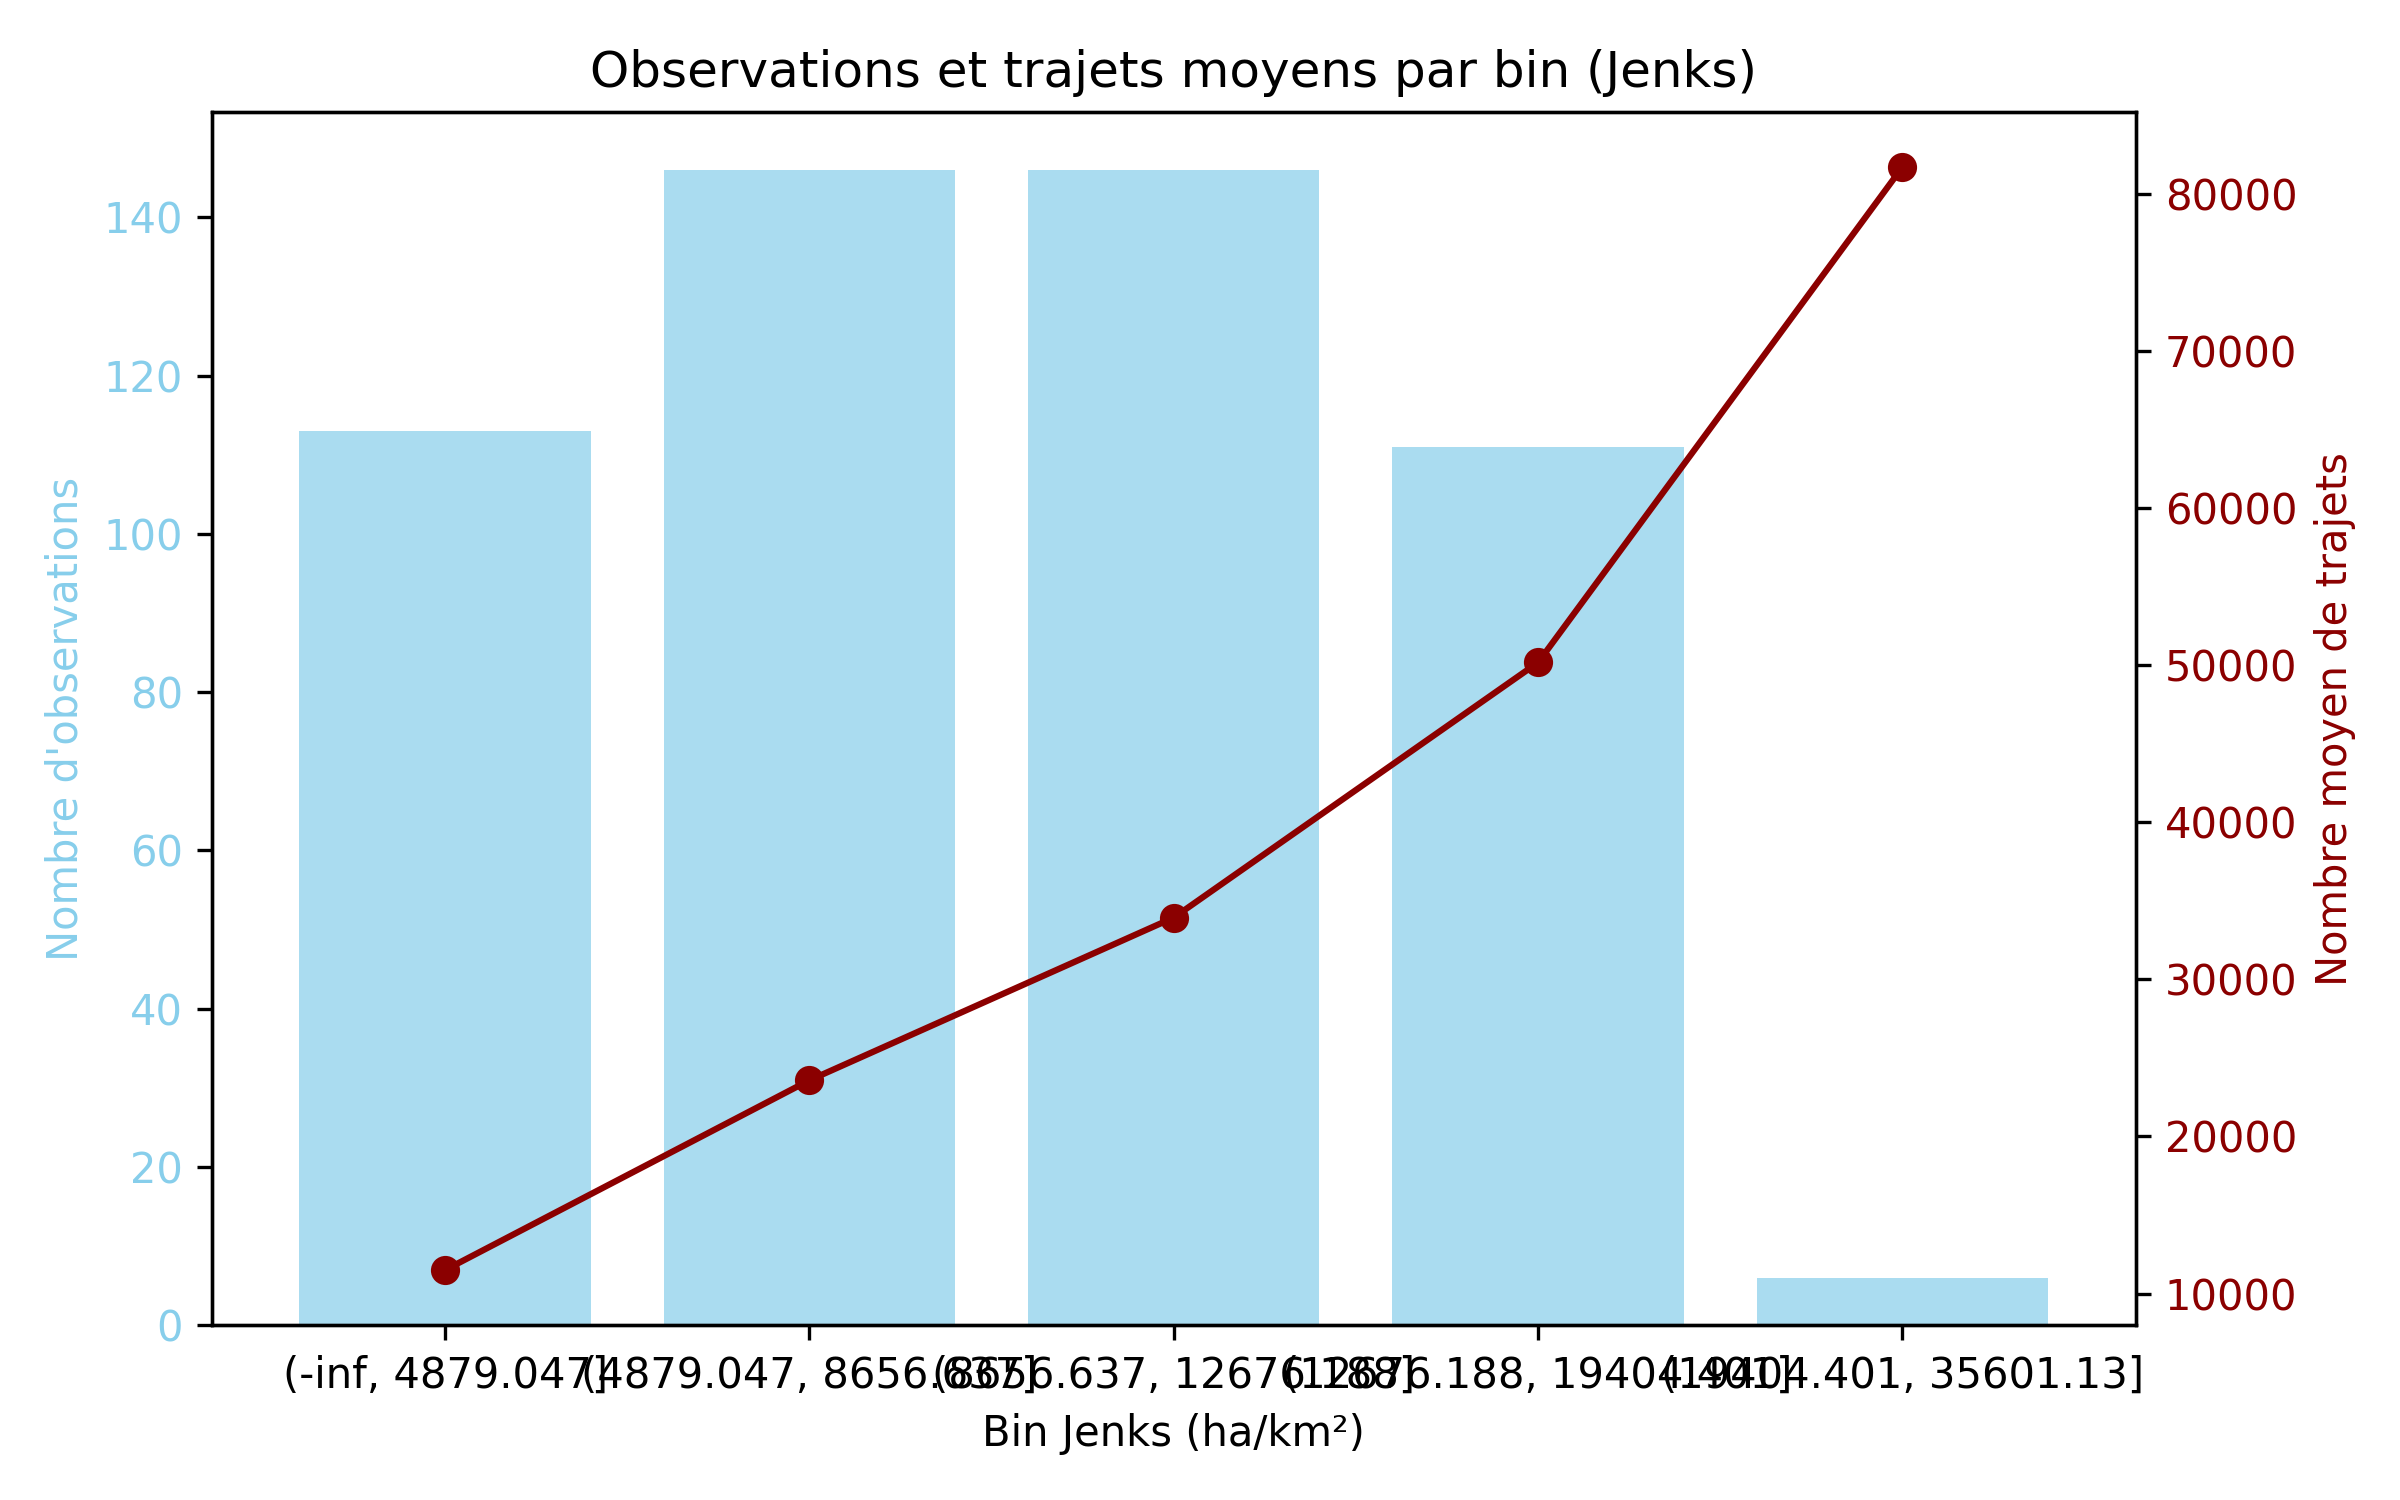
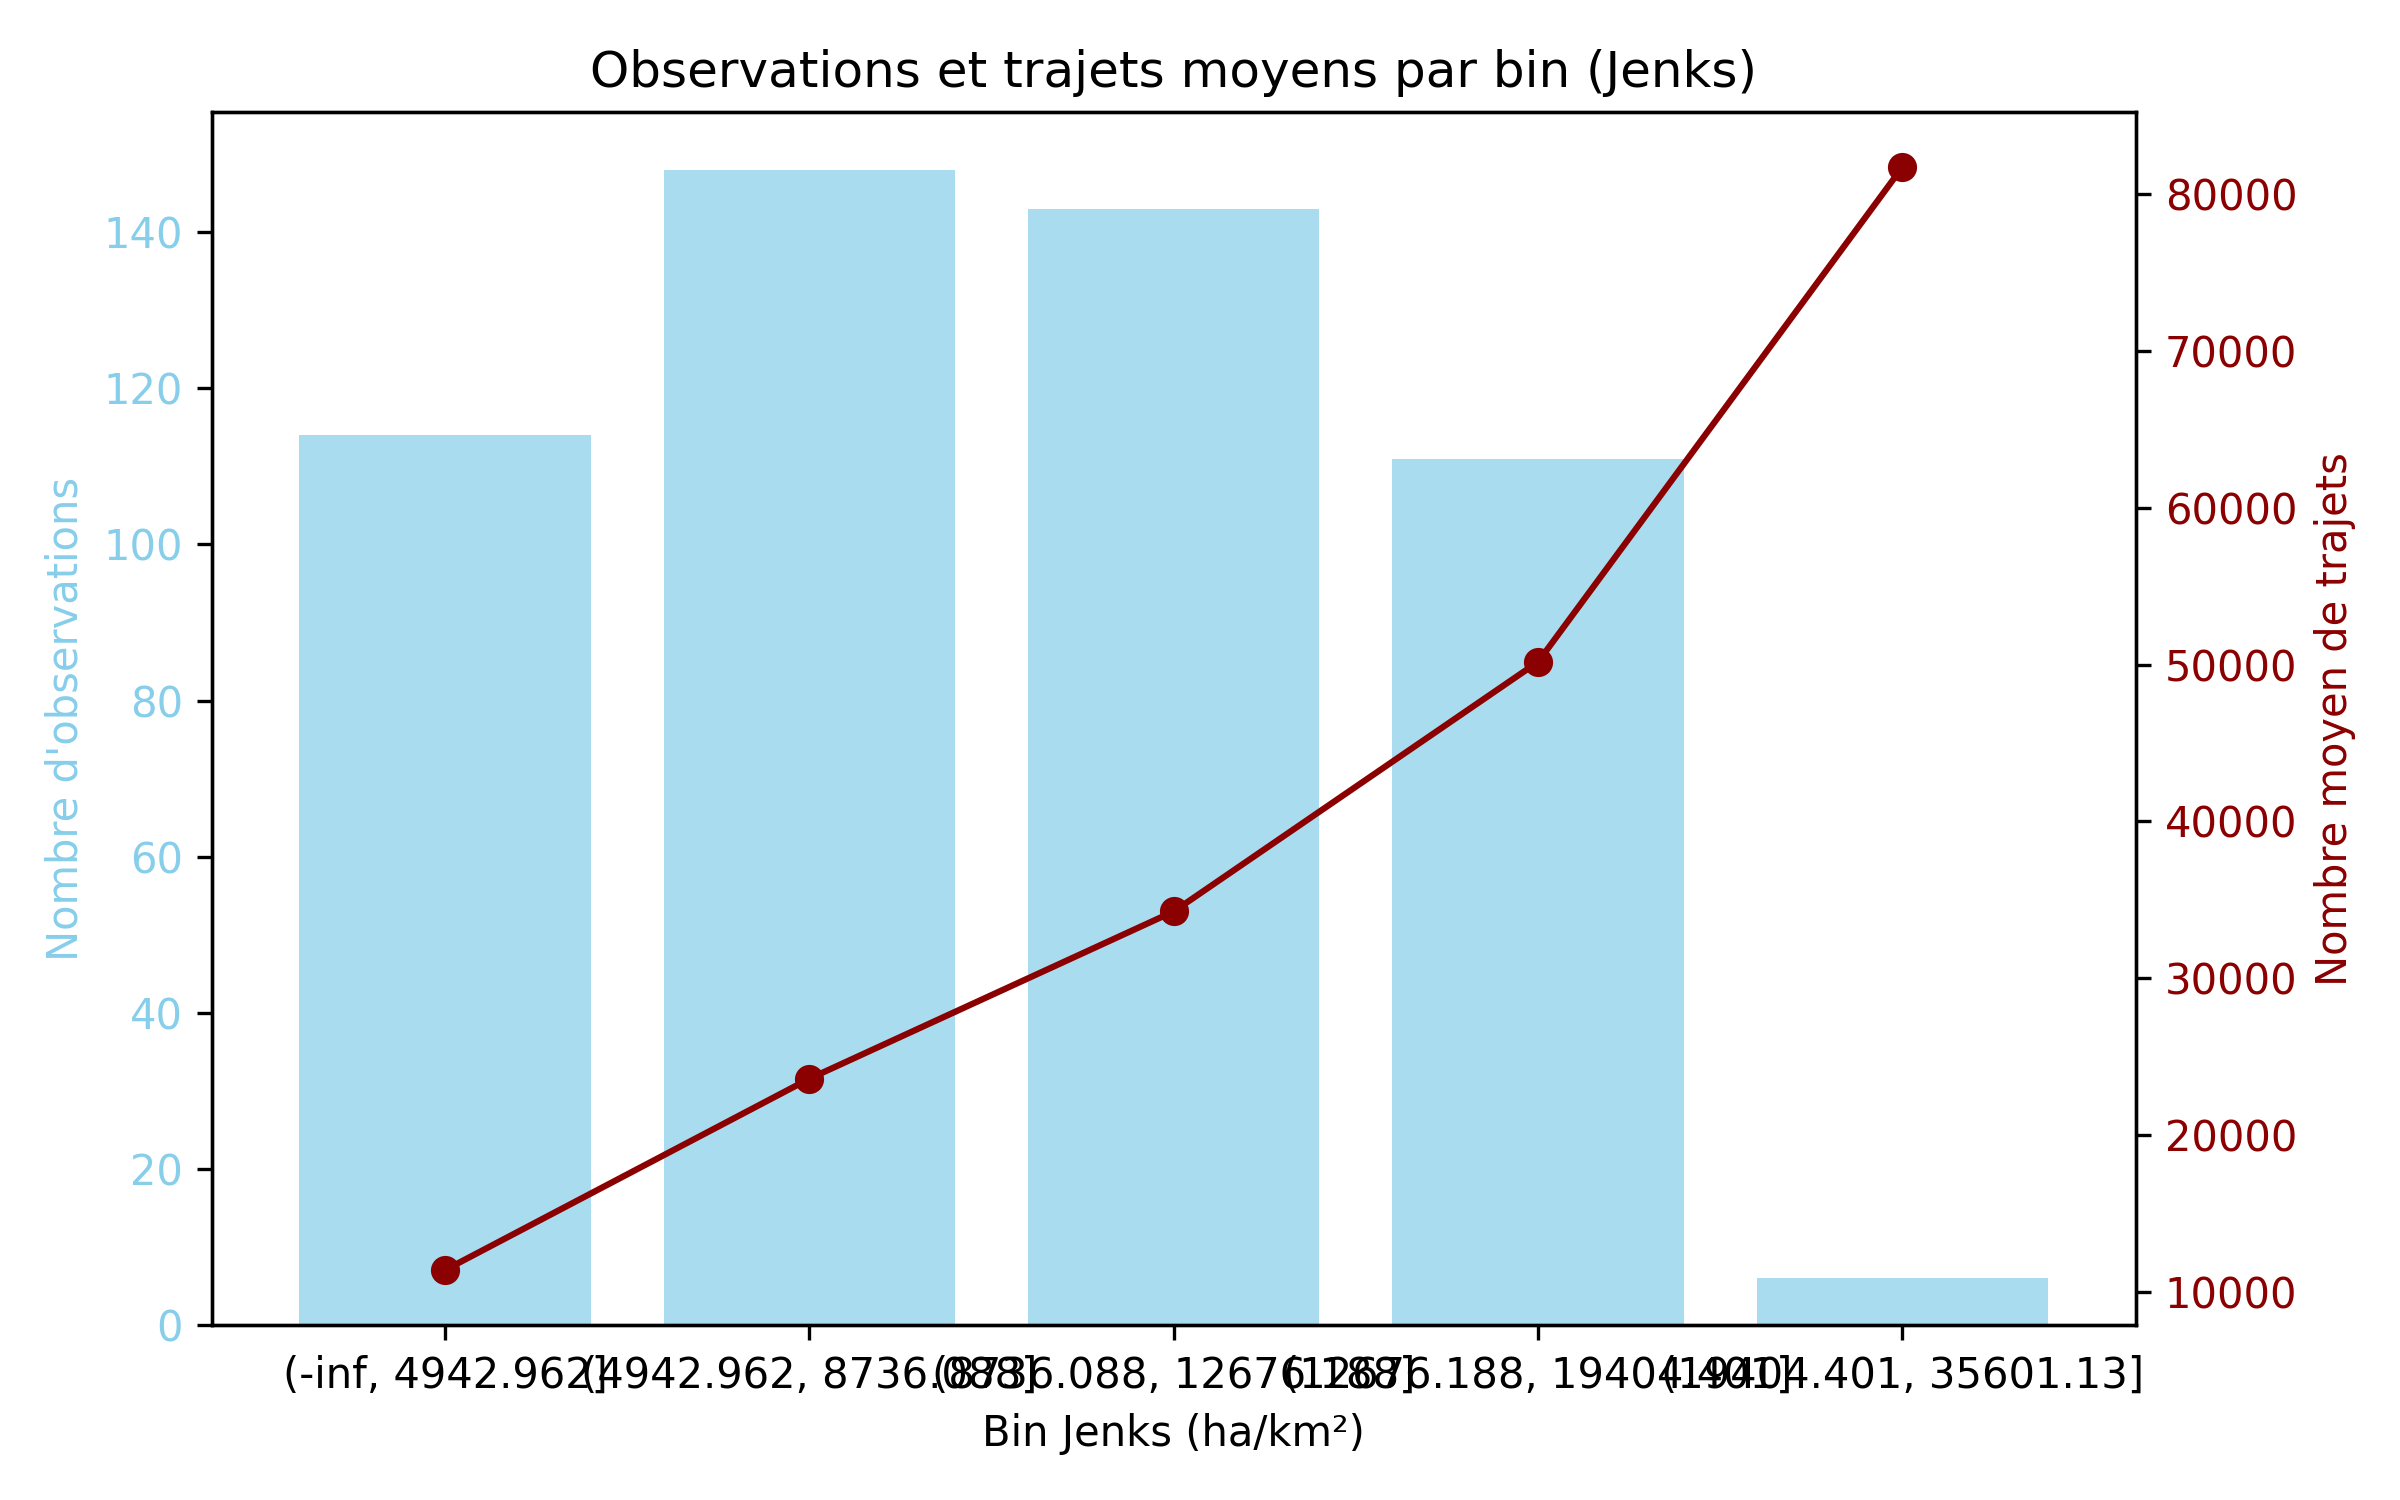
Revert "reformat csv"
This reverts commit 62c2c0f4a26b6646511b2d82e3f7f50ee252e098.

diff --git a/scripts/visuals/generate_visuals.py b/scripts/visuals/generate_visuals.py
@@ -29,15 +29,9 @@ def analyser_relation(df, x_col, y_col, output_prefix, correlation_csv="../../ou
 
     os.makedirs("../../output", exist_ok=True)
     if os.path.exists(correlation_csv):
-        corr_df.to_csv(correlation_csv,
-                       sep=";",  # séparateur de colonnes
-                       decimal=",",
-                       mode="a", header=False, index=False)
+        corr_df.to_csv(correlation_csv, mode="a", header=False, index=False)
     else:
-        corr_df.to_csv(correlation_csv,
-                       sep=";",  # séparateur de colonnes
-                       decimal=",",
-                       index=False)
+        corr_df.to_csv(correlation_csv, index=False)
 
     # Scatterplot
     plt.figure(figsize=(8, 6))
@@ -167,7 +161,7 @@ def analyser_zonage(hexagones, output_path ):
 
 def main():
     # Chargement des données
-    season = "hiver_2425"
+    season = "hiver_2324"
     if season == "ete_2024":
         hexagones = gpd.read_file("../../data/processed/ete_2024/hexagones250m_ete_2024_popdens_bikepath_parcs_universites_zonage_logement_cegep.shp")
     elif season == "hiver_2324":
